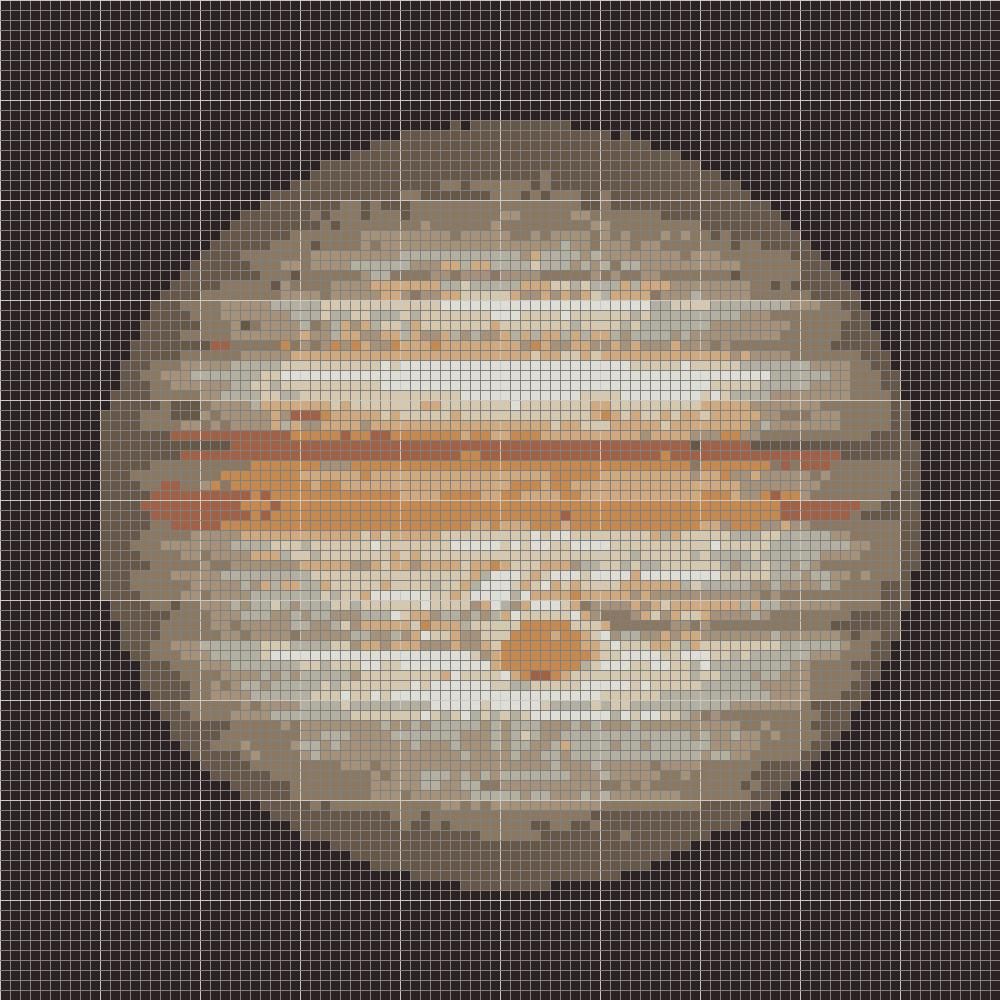
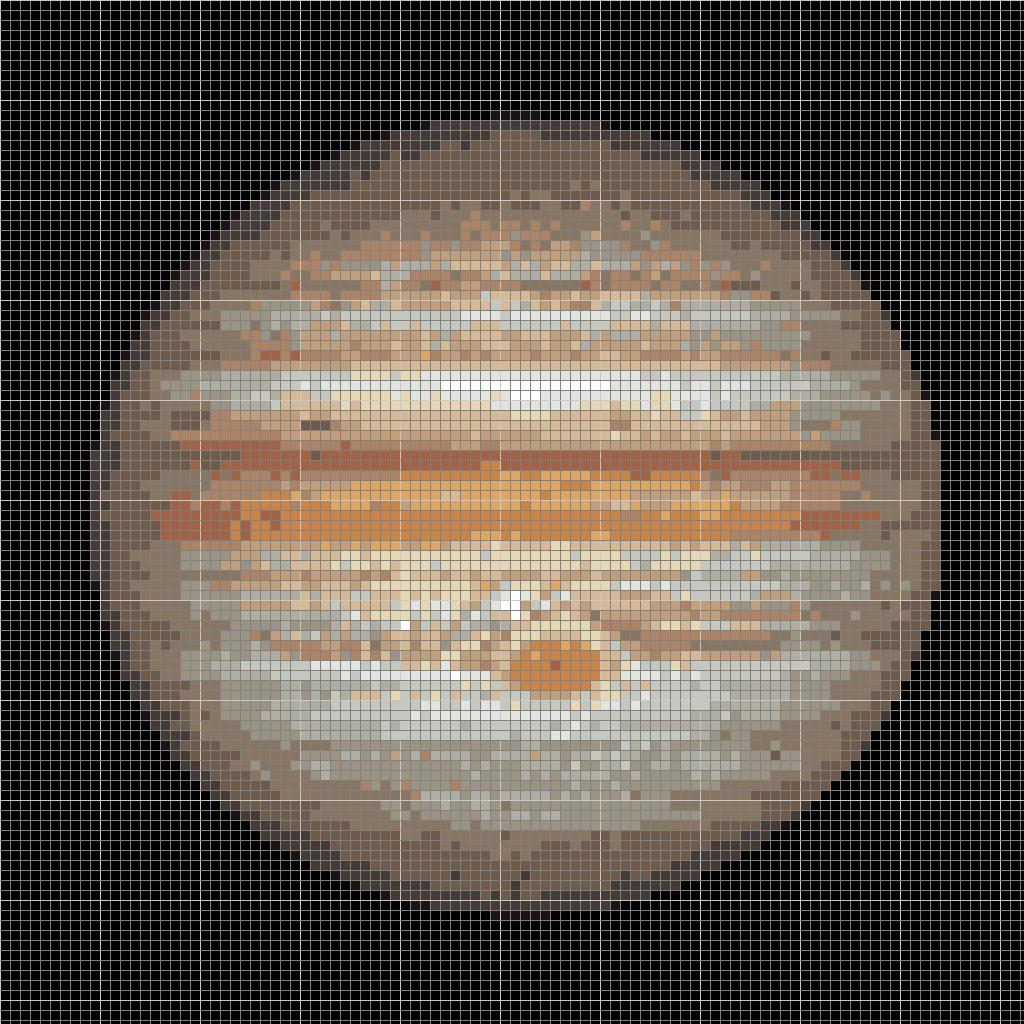
Aggiunto nero e bianco

diff --git a/Cross_Stitch/cross_stitch.py b/Cross_Stitch/cross_stitch.py
@@ -2,9 +2,10 @@ from PIL import Image, ImageDraw
 import numpy as np
 from scipy.spatial import cKDTree
 from sklearn.cluster import KMeans
+import os
 
 # input
-image_name='marte-NASA.jpg'
+image_name='giove.jpg'
 
 colori_filo=15
 dim_punto = 10 #ogni quanti pixel tiro la linea
@@ -30,6 +31,10 @@ image_array_reshape=np.unique(image_array.reshape((image_array.shape[0]*image_ar
 
 groups=km.fit(image_array_reshape)
 palette_array=groups.cluster_centers_
+
+#aggiungo comunque il nero e il bianco
+white_black=np.array([(255,255,255),(0,0,0)])
+palette_array=np.concatenate((palette_array,white_black))
 
 # Estrai i colori dalla palette (supponiamo che tu abbia una lista di 10 colori in formato RGB)
 # palette = [
